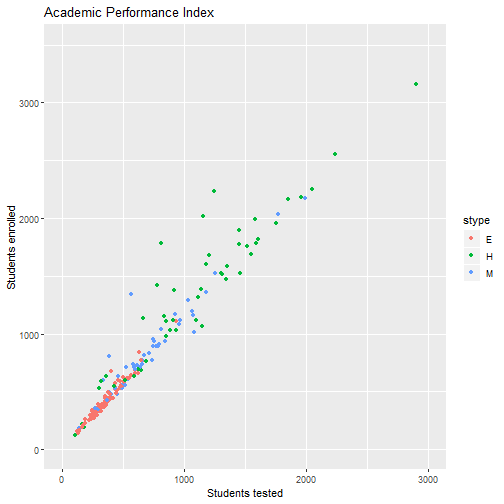
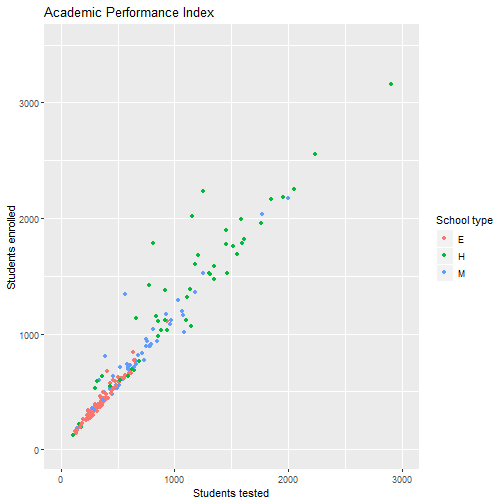
wizualizacja kolejna wersja

diff --git a/mr/09_wizualizacja.html b/mr/09_wizualizacja.html
@@ -290,13 +290,42 @@ ggplot(apistrat, aes(x=api.stu,
 
 ---
 
+# Wykres punktowy
+
+.pull-left[
+
+
+```r
+ggplot(apistrat, aes(x=api.stu, 
+                     y=enroll,
+                     color=stype)) + 
+  geom_point() +
+  xlab("Students tested") +
+  ylab("Students enrolled") +
+  scale_color_discrete(name = "School type") +
+  xlim(0,3000) +
+  ylim(0,3500) +
+  ggtitle("Academic Performance Index") +
+  theme_gray()
+```
+
+]
+
+.pull-right[
+
+![](09_wizualizacja_files/figure-html/unnamed-chunk-16-1.png)&lt;!-- --&gt;
+
+]
+
+---
+
 class: inverse
 
 # Zadanie
 
 Porównaj na wykres punktowym zmienne `api00` i `api99`.
 
-<div class="countdown" id="timer_5def7331" style="top:0;right:0;" data-warnwhen="0">
+<div class="countdown" id="timer_5df0934b" style="top:0;right:0;" data-warnwhen="0">
 <code class="countdown-time"><span class="countdown-digits minutes">10</span><span class="countdown-digits colon">:</span><span class="countdown-digits seconds">00</span></code>
 </div>
 
@@ -345,11 +374,9 @@ ggplot(apistrat, aes(x=api.stu,
 
 .pull-right[
 
-![](09_wizualizacja_files/figure-html/unnamed-chunk-16-1.png)&lt;!-- --&gt;
+![](09_wizualizacja_files/figure-html/unnamed-chunk-18-1.png)&lt;!-- --&gt;
 
 ]
-
-
 
 ---
 
@@ -375,7 +402,7 @@ ggplot(apistrat, aes(x = stype)) +
 
 .pull-right[
 
-![](09_wizualizacja_files/figure-html/unnamed-chunk-18-1.png)&lt;!-- --&gt;
+![](09_wizualizacja_files/figure-html/unnamed-chunk-20-1.png)&lt;!-- --&gt;
 
 ]
 
@@ -395,7 +422,7 @@ ggplot(apistrat, aes(x = stype)) +
 
 .pull-right[
 
-![](09_wizualizacja_files/figure-html/unnamed-chunk-20-1.png)&lt;!-- --&gt;
+![](09_wizualizacja_files/figure-html/unnamed-chunk-22-1.png)&lt;!-- --&gt;
 
 ]
 
@@ -433,7 +460,71 @@ ggplot(api_stype, aes(x = stype,
 
 .pull-right[
 
-![](09_wizualizacja_files/figure-html/unnamed-chunk-23-1.png)&lt;!-- --&gt;
+![](09_wizualizacja_files/figure-html/unnamed-chunk-25-1.png)&lt;!-- --&gt;
+
+]
+
+---
+
+# Wykres słupkowy - `geom_col`
+
+.pull-left[
+
+
+```r
+api_stype_aw &lt;- svyby(formula = ~api00, 
+                      by = ~stype+awards,
+                      design = dstrat, 
+                      FUN = svymean)
+api_stype_aw
+```
+
+```
+##       stype awards    api00       se
+## E.No      E     No 659.8148 25.76673
+## H.No      H     No 608.7941 15.77133
+## M.No      M     No 599.1154 21.64198
+## E.Yes     E    Yes 679.8356 13.97970
+## H.Yes     H    Yes 662.0000 30.67662
+## M.Yes     M    Yes 677.2083 21.52284
+```
+
+
+
+```r
+ggplot(api_stype_aw, aes(x = stype, 
+                         y = api00,
+                         fill = awards)) +
+  geom_col()
+```
+
+]
+
+.pull-right[
+
+![](09_wizualizacja_files/figure-html/unnamed-chunk-28-1.png)&lt;!-- --&gt;
+
+]
+
+---
+
+# Wykres słupkowy - `geom_col`
+
+.pull-left[
+
+
+```r
+ggplot(api_stype_aw, aes(x = stype, 
+                         y = api00,
+                         fill = awards)) +
+  geom_col(position = "dodge")
+```
+
+]
+
+.pull-right[
+
+![](09_wizualizacja_files/figure-html/unnamed-chunk-30-1.png)&lt;!-- --&gt;
 
 ]
 
@@ -446,9 +537,23 @@ class: inverse
 Oszacuj liczbę osób biorących udział w teście w przekroju typu szkoły i przedstaw na wykresie.
 
 
-<div class="countdown" id="timer_5def70c6" style="top:0;right:0;" data-warnwhen="0">
+<div class="countdown" id="timer_5df092b2" style="top:0;right:0;" data-warnwhen="0">
 <code class="countdown-time"><span class="countdown-digits minutes">10</span><span class="countdown-digits colon">:</span><span class="countdown-digits seconds">00</span></code>
 </div>
+
+---
+
+# Podsumowanie
+
+- różne role w zależności od typu wykresu
+
+- odpowiedni typ danych w zależności od roli
+
+- `geom_bar` dla danych jednostkowych np. analiza próby
+
+- `geom_col` dla danych zagregowanych, np. wyniki funkcji `svyby`
+
+- więcej przykładów na stronie [Podstawy programowania w R - wizualizacja danych](http://www.wawrowski.edu.pl/ppr/wizualizacja-danych.html)
 
 ---
 
